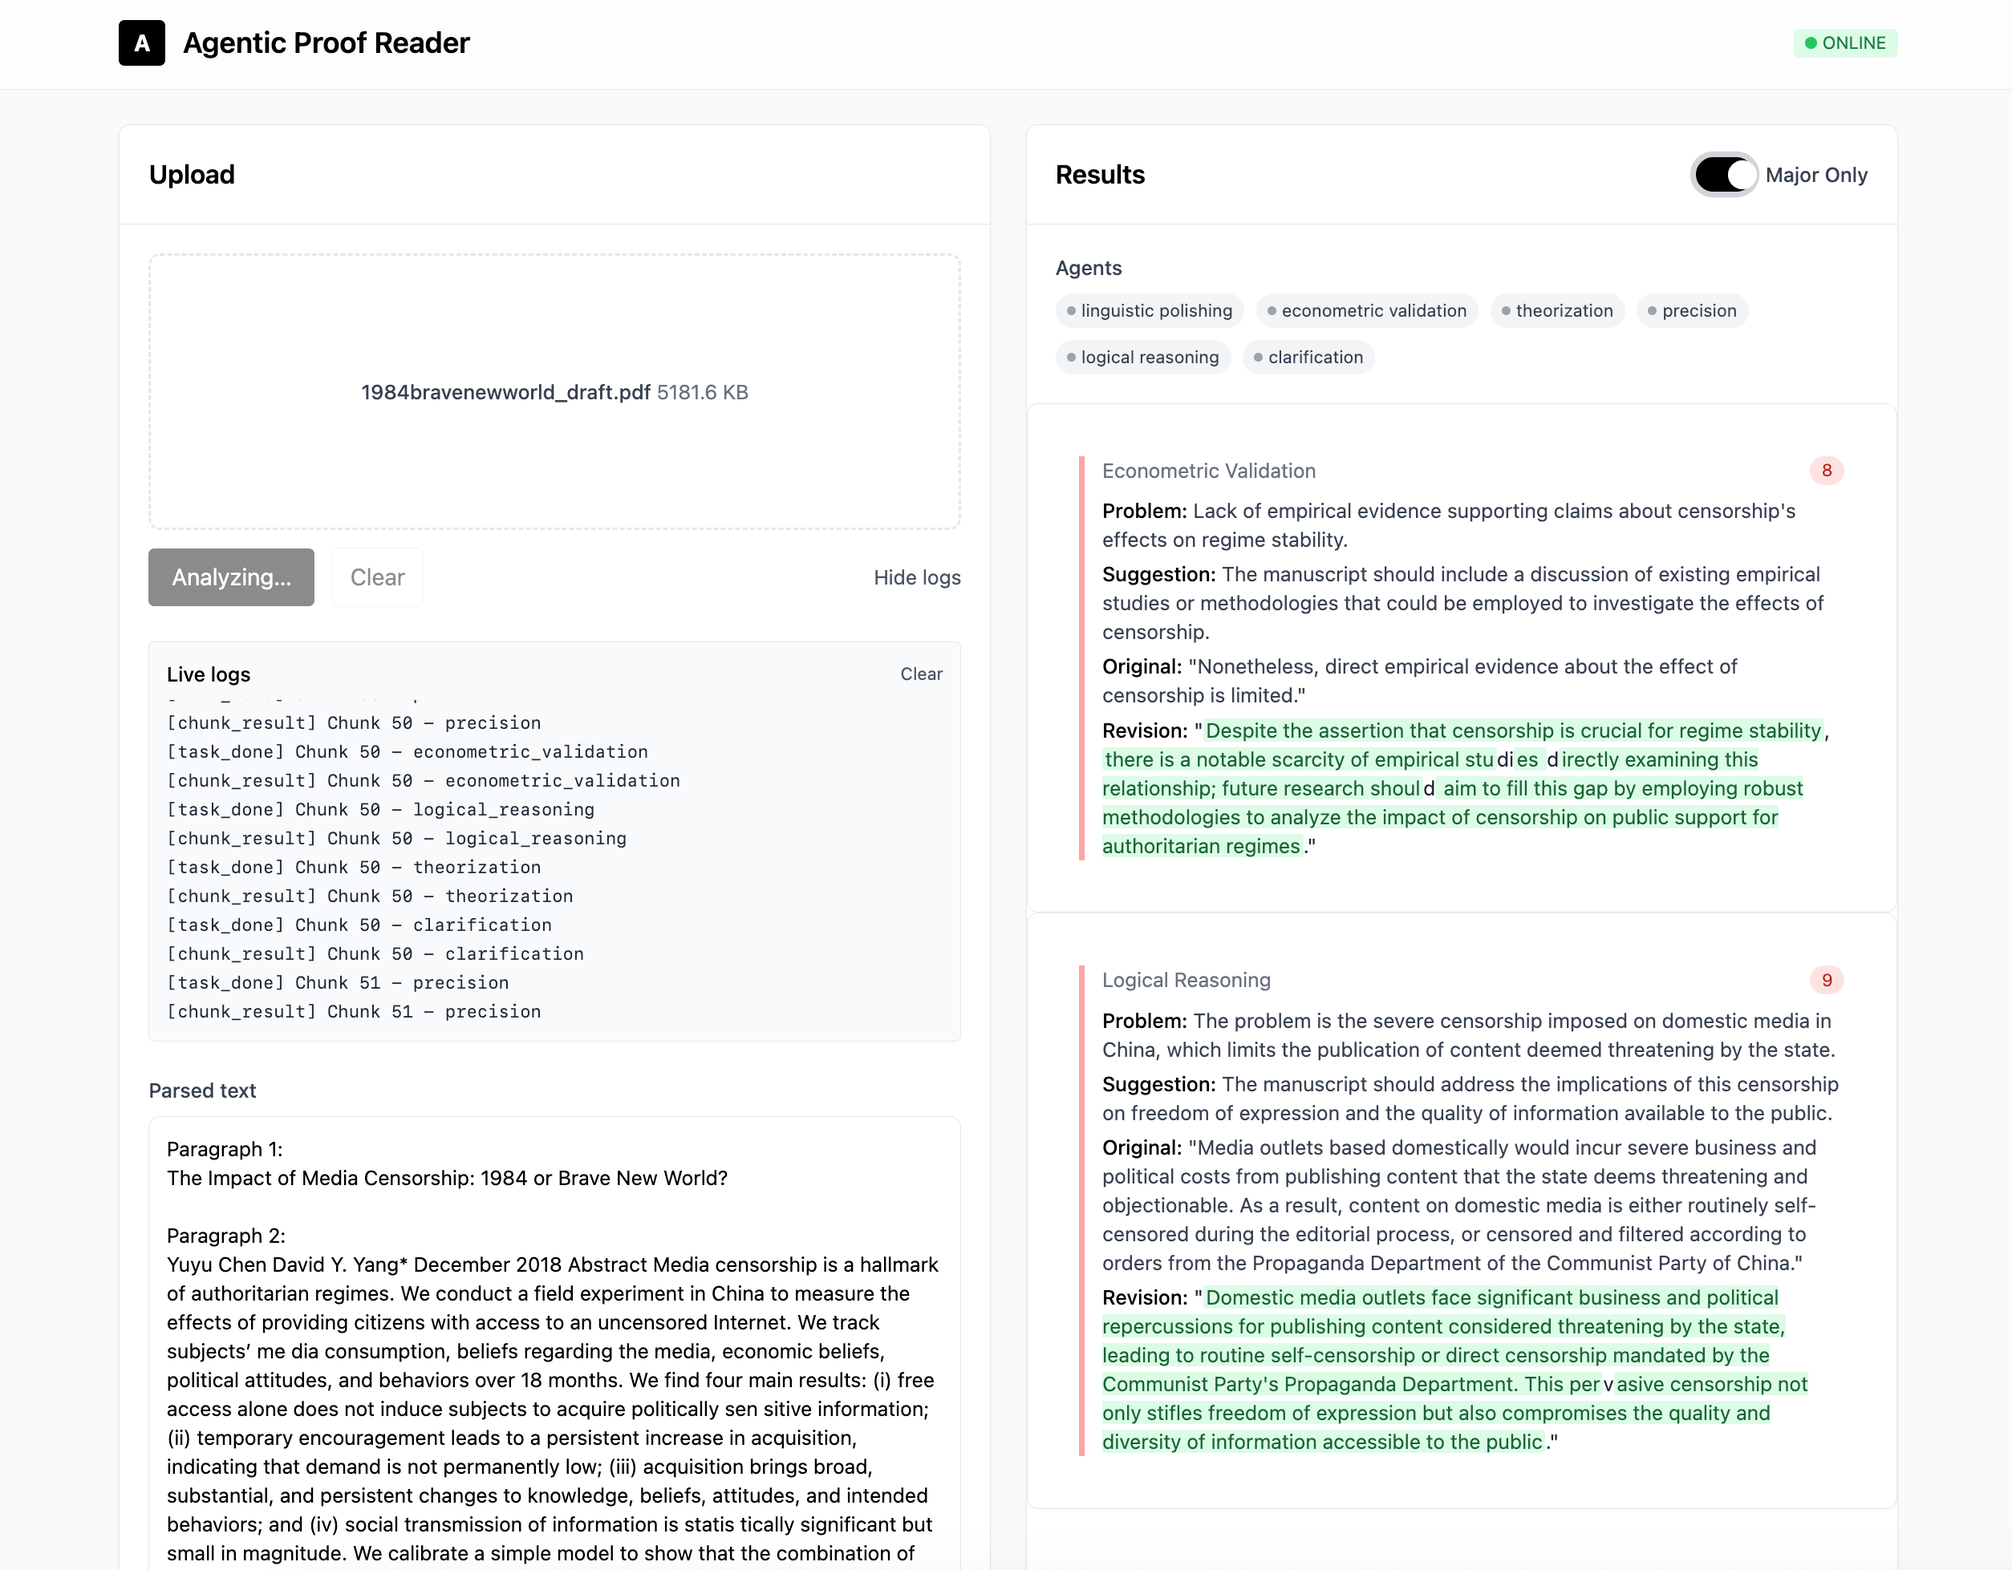
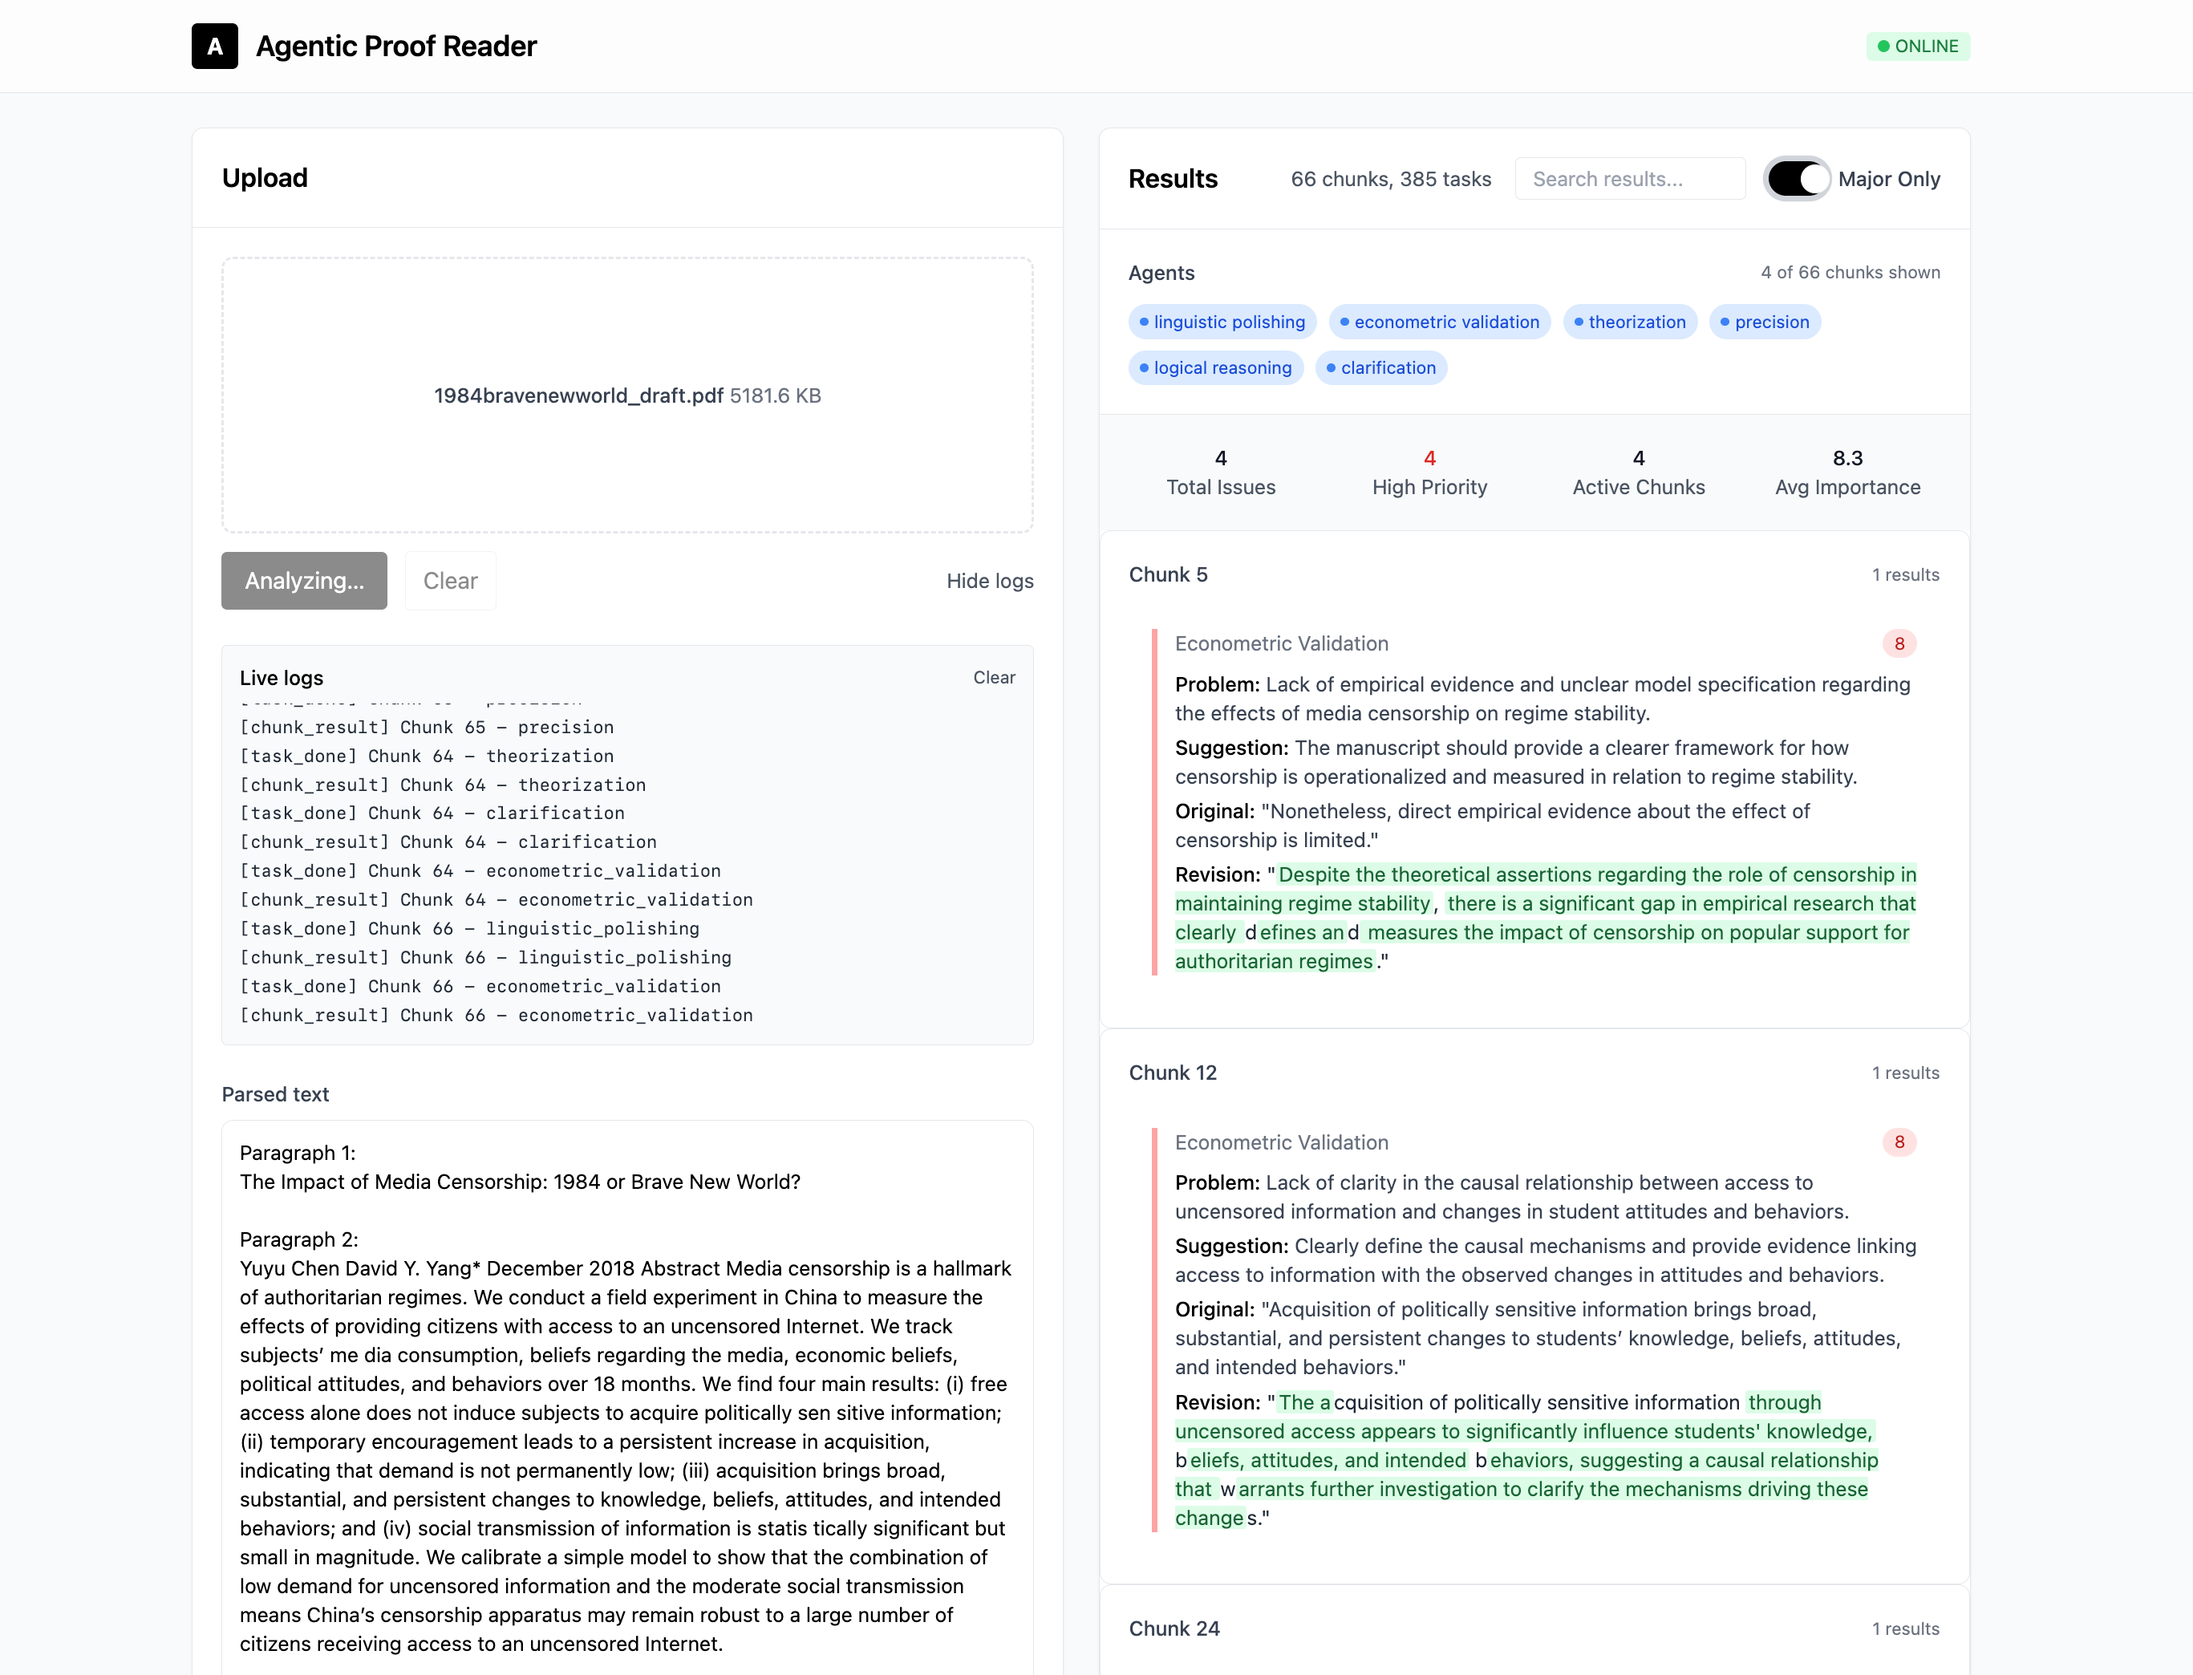
fix: display

diff --git a/app/static/index.html b/app/static/index.html
@@ -90,7 +90,7 @@
             <div class="flex items-center gap-4">
               <div class="text-sm text-gray-600" v-if="Object.keys(chunkResults).length">
                 {{ Object.keys(chunkResults).length }} chunks, {{ totalTasks }} tasks
-                <span v-if="totalPages > 1">(page {{ currentPage }} of {{ totalPages }})</span>
+                <!-- <span v-if="totalPages > 1">(page {{ currentPage }} of {{ totalPages }})</span> -->
               </div>
               <div class="flex items-center gap-4">
                 <input 
@@ -159,10 +159,10 @@
             </div>
             
             <!-- Distributed results view (always enabled) -->
-            <div v-if="Object.keys(paginatedChunkResults).length === 0 && !loading && Object.keys(chunkResults).length > 0" class="p-5 text-center text-gray-500">
+            <div v-if="!hasAnyFilteredResults && !loading && hasAnyResults" class="p-5 text-center text-gray-500">
               No results match your current filters.
             </div>
-            <div v-else-if="Object.keys(paginatedChunkResults).length === 0 && !loading" class="p-5 text-center text-gray-500">
+            <div v-else-if="!hasAnyResults && !loading" class="p-5 text-center text-gray-500">
               No results to display.
             </div>
             <div v-for="(chunk, chunkId) in paginatedChunkResults" :key="chunkId" class="border rounded-lg p-5">
@@ -236,7 +236,7 @@
           const results = ref([])
           const chunkResults = ref({})
           const useDistributed = ref(true)  // Always enabled
-          const showImportantOnly = ref(true)
+          const showImportantOnly = ref(false)
           const progress = ref([])
           const parsed = ref('')
           const parsedBox = ref(null)
@@ -409,21 +409,24 @@
                 // Handle chunk results
                 if (msg.stage === 'chunk_result' && msg.result) {
                   const chunkId = msg.chunk_id
-                  if (!chunkResults.value[chunkId]) {
-                    chunkResults.value[chunkId] = []
+                  // Create a new object to trigger Vue reactivity
+                  const updated = { ...chunkResults.value }
+                  if (!updated[chunkId]) {
+                    updated[chunkId] = []
                   }
-                  const existingIdx = chunkResults.value[chunkId].findIndex(x => x.agent_name === msg.agent_name)
+                  const existingIdx = updated[chunkId].findIndex(x => x.agent_name === msg.agent_name)
                   if (existingIdx >= 0) {
-                    chunkResults.value[chunkId][existingIdx] = {
+                    updated[chunkId][existingIdx] = {
                       agent_name: msg.agent_name,
                       result: msg.result
                     }
                   } else {
-                    chunkResults.value[chunkId].push({
+                    updated[chunkId].push({
                       agent_name: msg.agent_name,
                       result: msg.result
                     })
                   }
+                  chunkResults.value = updated
                 }
                 
                 nextTick(() => { const el = logsBox.value; if (el) el.scrollTop = el.scrollHeight })
@@ -457,8 +460,18 @@
               const data = await resp.json()
               // parsed.value is already set from WebSocket message
               
-              // Handle distributed results
-              chunkResults.value = data.chunks || {}
+              // Handle distributed results - merge with any streamed results instead of overwriting
+              const incoming = data.chunks || {}
+              const merged = { ...chunkResults.value }
+              for (const [cid, items] of Object.entries(incoming)) {
+                if (!merged[cid]) merged[cid] = []
+                for (const it of items) {
+                  const idx = merged[cid].findIndex(x => x.agent_name === it.agent_name)
+                  if (idx >= 0) merged[cid][idx] = it
+                  else merged[cid].push(it)
+                }
+              }
+              chunkResults.value = merged
               // After results arrive, ensure we render from first page
               currentPage.value = 1
               showLogs.value = false
@@ -546,6 +559,20 @@
             return Math.ceil(totalChunks / itemsPerPage.value)
           })
           
+          const hasAnyResults = Vue.computed(() => {
+            for (const chunk of Object.values(chunkResults.value)) {
+              if ((chunk || []).length > 0) return true
+            }
+            return false
+          })
+
+          const hasAnyFilteredResults = Vue.computed(() => {
+            for (const chunk of Object.values(filteredChunkResults.value)) {
+              if ((chunk || []).length > 0) return true
+            }
+            return false
+          })
+
           const paginatedChunkResults = Vue.computed(() => {
             const entries = Object.entries(filteredChunkResults.value)
             const start = (currentPage.value - 1) * itemsPerPage.value
@@ -603,10 +630,12 @@
             if (currentPage.value < 1) currentPage.value = 1
           })
 
+          // Keep user in control: do not auto-toggle importance filter
+
           return {
             fileInput, selectedFile, selectedName, selectedSize, loading, results, chunkResults, useDistributed, progress, parsed, parsedBox, logs, logsBox, showLogs, health, toast,
             agentNames, agentStates, prettyName, badgeClass, dotClass, importanceClass, importanceBorderClass, showImportantOnly, filteredResults, filteredChunkResults, totalTasks,
-            currentPage, itemsPerPage, totalPages, paginatedChunkResults, searchQuery,
+            currentPage, itemsPerPage, totalPages, paginatedChunkResults, searchQuery, hasAnyResults, hasAnyFilteredResults,
             totalFilteredTasks, highImportanceCount, averageImportance,
             onSubmit, onDrop, onFileChange, locate, toggleLogs, resetAll, copyText, exportJSON, checkHealth, goToPage
           }

diff --git a/start.py b/start.py
@@ -18,4 +18,3 @@ if __name__ == "__main__":
 
     # Run the serve command with default options
     typer.run(serve)
-    typer.run(serve)
